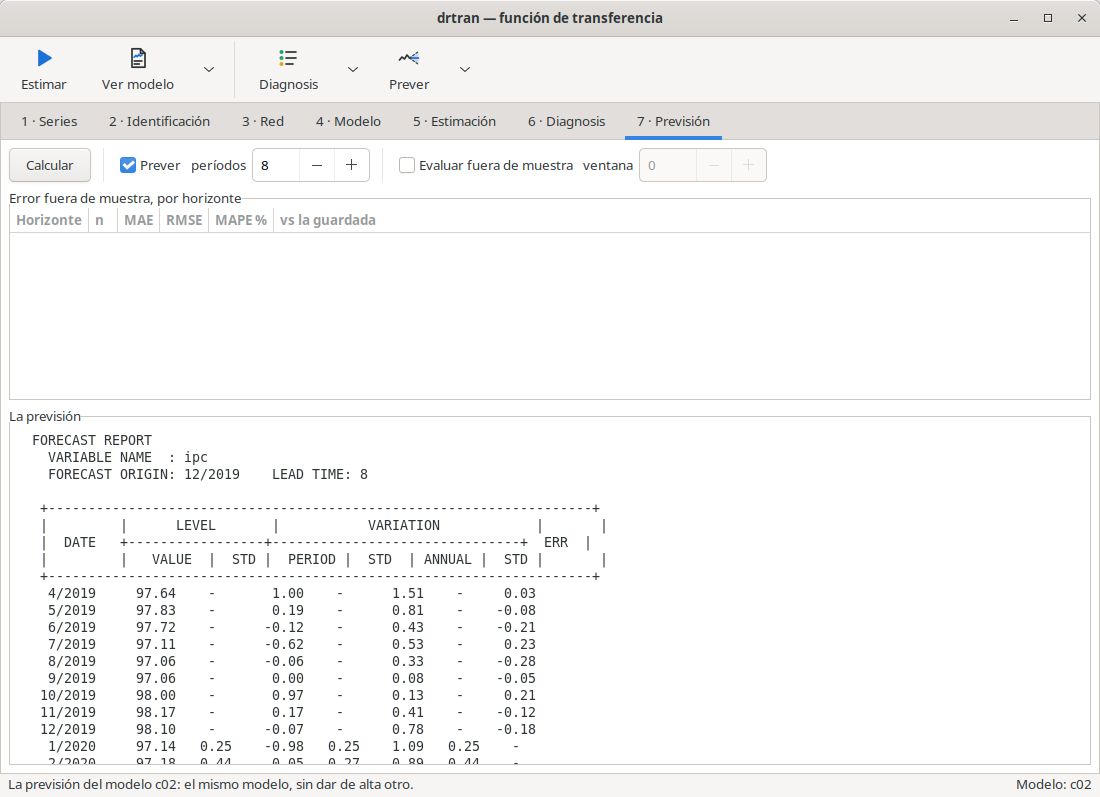
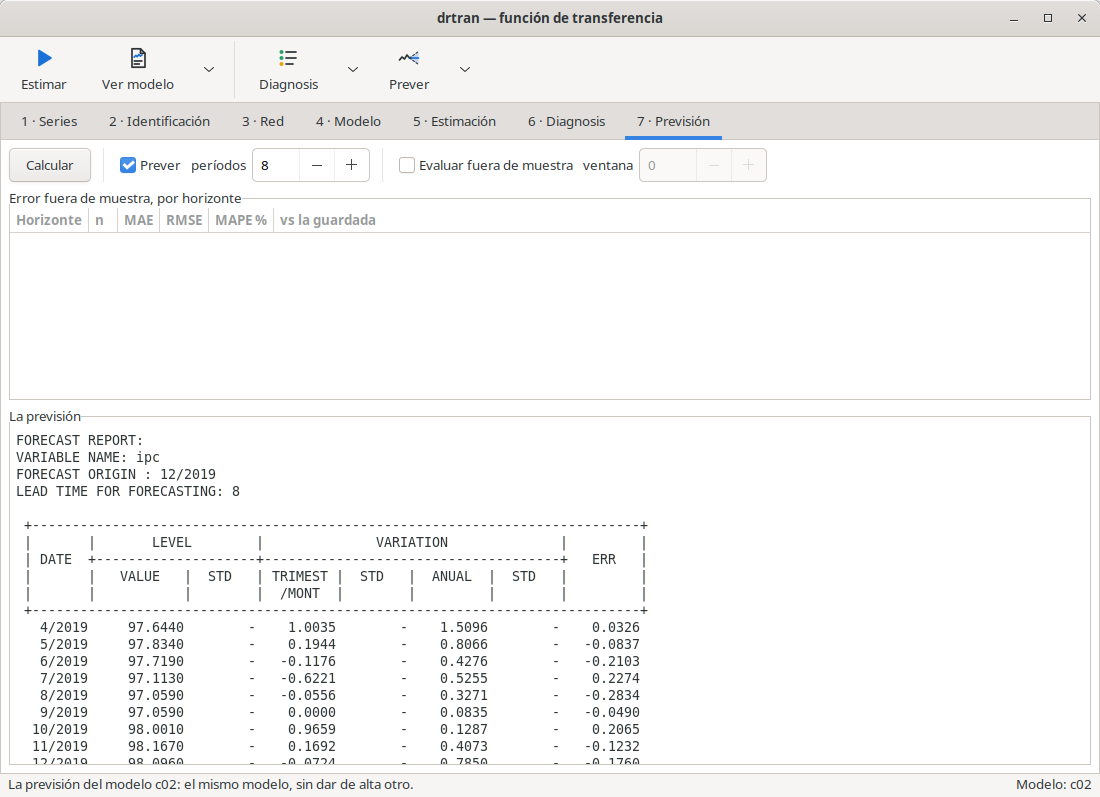
Previsión, fase P2: la tabla de la previsión de drtran, en el formato de fuf
- El .out de drtran escribe la tabla de forecast_table_acii de fuf: sus
  cabeceras, rótulos, columnas y cuatro decimales. Lleva un espacio
  garantizado entre campos; en fuf van pegados y los números grandes se
  juntan.
- lib/outfcst lee la cabecera nueva y la vieja, y las fechas anuales.
- La batería de drtran, el repro de BUG-55 y numeros.py leen la tabla nueva.
- TODO: el defecto de fuf, apuntado y sin tocar.
- Manual: la foto de la ventana, con la tabla nueva.

diff --git a/engines/drtran/src/drtran.c b/engines/drtran/src/drtran.c
@@ -1927,38 +1927,49 @@ static void transfer_forecast(real *x, int npar, int L, real sigma2, FILE *out)
         ystar = vector(1, nb + L);
         for (t = 1; t <= nb + L; t++) ystar[t] = YS[i][t];
 
+        /* LA TABLA DE fuf (forecast_table_acii, engines/fuf/src/usfo.c): sus
+           cabeceras, sus rotulos, sus columnas y sus cuatro decimales, para
+           que el analista lea la misma tabla en fue y aqui. Con una
+           diferencia, y es a proposito: cada campo lleva al menos un espacio
+           delante. En fuf van pegados (%9.4f%7.4f...), y con un nivel de
+           1000 o una desviacion de 10 dos numeros se juntan en uno -- con WTI
+           (d.t. hasta 45) o el m6 (niveles de 5000) pasaba en cada fila.
+           Las unidades son las de esta tabla: la variacion en % si el modelo
+           va en logaritmos; si no, en las unidades de la serie.           */
         obs_to_date(Ts[i].begyear, Ts[i].begtime, freq, nb, &per, &yr);
-        fprintf(out, "\n  FORECAST REPORT\n");
-        fprintf(out, "    VARIABLE NAME  : %s\n", Ts[i].name ? Ts[i].name : "");
-        if (freq > 1) fprintf(out, "    FORECAST ORIGIN: %2d/%-4d", per, yr);
-        else          fprintf(out, "    FORECAST ORIGIN: %-4d", yr);
-        fprintf(out, "    LEAD TIME: %d\n\n", L);
-        fprintf(out, "   +--------------------------------------------------------------------+\n");
-        fprintf(out, "   |         |      LEVEL       |           VARIATION            |       |\n");
-        fprintf(out, "   |  DATE   +-----------------+-------------------------------+  ERR  |\n");
-        fprintf(out, "   |         |   VALUE  |  STD |  PERIOD |  STD  | ANNUAL |  STD |       |\n");
-        fprintf(out, "   +--------------------------------------------------------------------+\n");
+        fprintf(out, "\nFORECAST REPORT: \n");
+        fprintf(out, "VARIABLE NAME: %s\n", Ts[i].name ? Ts[i].name : "");
+        if (freq > 1) fprintf(out, "FORECAST ORIGIN : %2d/%4d\n", per, yr);
+        else          fprintf(out, "FORECAST ORIGIN : %4d\n", yr);
+        fprintf(out, "LEAD TIME FOR FORECASTING: %d\n\n", L);
+        fprintf(out, " +----------------------------------------------------------------------------+\n");
+        fprintf(out, " |       |       LEVEL        |              VARIATION              |         |\n");
+        fprintf(out, " | DATE  +--------------------+-------------------------------------+   ERR   |\n");
+        fprintf(out, " |       |   VALUE   |  STD   | TRIMEST |  STD   |  ANUAL  |  STD   |         |\n");
+        fprintf(out, " |       |           |        |  /MONT  |        |         |        |         |\n");
+        fprintf(out, " +----------------------------------------------------------------------------+\n");
 
         /* Filas OBSERVADAS: las ultimas L+1 (origen incluido). */
         for (obs = nb - L; obs <= nb; obs++) {
             if (obs < 1) continue;
             obs_to_date(Ts[i].begyear, Ts[i].begtime, freq, obs, &per, &yr);
-            if (freq > 1) fprintf(out, "   %2d/%-4d ", per, yr);
-            else          fprintf(out, "   %-6d ", yr);
-            fprintf(out, "%9.2f    -   ", Ts[i].data[obs]);
-            if (obs - 1 >= 1) fprintf(out, "%8.2f    -   ", vscale * (ystar[obs] - ystar[obs-1]));
-            else              fprintf(out, "    -        -   ");
-            if (obs - freq >= 1) fprintf(out, "%7.2f    -  ", vscale * (ystar[obs] - ystar[obs-freq]));
-            else                 fprintf(out, "   -        -  ");
+            if (freq > 1) fprintf(out, "  %2d/%4d", per, yr);
+            else          fprintf(out, "     %4d", yr);
+            fprintf(out, "%12.4f%9s", Ts[i].data[obs], "-");
+            if (obs - 1 >= 1) fprintf(out, "%10.4f%9s", vscale * (ystar[obs] - ystar[obs-1]), "-");
+            else              fprintf(out, "%10s%9s", "-", "-");
+            if (freq > 1 && obs - freq >= 1)
+                 fprintf(out, "%10.4f%9s", vscale * (ystar[obs] - ystar[obs-freq]), "-");
+            else fprintf(out, "%10s%9s", "-", "-");
             if (obs - ord >= 1 && obs - ord <= n_stat)
                 /* a esta indexada [tiempo][serie], como en todo el resto del
                    fichero.  Aqui estaba al reves -- a[i][obs-ord] --, asi que
                    la columna ERR leia de OTRA posicion del bloque contiguo de
                    residuos: valores que parecen residuos porque LO SON, pero de
                    la observacion equivocada.  Por eso nunca canto.             */
-                fprintf(out, "%7.2f\n", vscale * vf.a[obs - ord][i]);
+                fprintf(out, "%10.4f\n", vscale * vf.a[obs - ord][i]);
             else
-                fprintf(out, "    -  \n");
+                fprintf(out, "%10s\n", "-");
         }
         /* Filas de PREVISION. */
         for (l = 1; l <= L; l++) {
@@ -1968,15 +1979,15 @@ static void transfer_forecast(real *x, int npar, int L, real sigma2, FILE *out)
             real f2  = ystar[nb + l] - ystar[nb + l - 1];
             real f3  = (nb + l - freq >= 1) ? ystar[nb + l] - ystar[nb + l - freq] : 0.0;
             obs_to_date(Ts[i].begyear, Ts[i].begtime, freq, nb + l, &per, &yr);
-            if (freq > 1) fprintf(out, "   %2d/%-4d ", per, yr);
-            else          fprintf(out, "   %-6d ", yr);
-            fprintf(out, "%9.2f %6.2f ", LVL[i][l], vscale * sd1);
-            fprintf(out, "%8.2f %6.2f ", vscale * f2, vscale * sd2);
-            if (freq > 1) fprintf(out, "%7.2f %6.2f", vscale * f3, vscale * sd3);
-            else          fprintf(out, "    -       - ");
-            fprintf(out, "    -  \n");
+            if (freq > 1) fprintf(out, "  %2d/%4d", per, yr);
+            else          fprintf(out, "     %4d", yr);
+            fprintf(out, "%12.4f%9.4f", LVL[i][l], vscale * sd1);
+            fprintf(out, "%10.4f%9.4f", vscale * f2, vscale * sd2);
+            if (freq > 1) fprintf(out, "%10.4f%9.4f", vscale * f3, vscale * sd3);
+            else          fprintf(out, "%10s%9s", "-", "-");
+            fprintf(out, "%10s\n", "-");
         }
-        fprintf(out, "   +--------------------------------------------------------------------+\n");
+        fprintf(out, " +----------------------------------------------------------------------------+\n");
         free_vector(ystar, 1, nb + L);
     }
 

diff --git a/lib/outfcst/outfcst.c b/lib/outfcst/outfcst.c
@@ -54,12 +54,18 @@ static int lee_fila( const char *l, OfFila *f )
 
    p = campo( p, b, sizeof b, &hueco );
    if ( !p || hueco ) return 0;
-   /* la fecha: digitos, una barra, digitos */
+   /* la fecha: digitos, una barra, digitos; o, en una serie anual, el anio
+    * solo, con sus cuatro cifras (y no otra cosa: «1» es la fila de un
+    * horizonte de la evaluacion, no un anio).                          */
    {
    char *barra = strchr( b, '/' );
 
-   if ( !barra || !isdigit( (unsigned char) b[0] ) ||
-        !isdigit( (unsigned char) barra[1] ) ) return 0;
+   if ( barra ) {
+      if ( !isdigit( (unsigned char) b[0] ) ||
+           !isdigit( (unsigned char) barra[1] ) ) return 0;
+   } else if ( strlen( b ) != 4 || strspn( b, "0123456789" ) != 4 ||
+               atoi( b ) < 1000 )
+      return 0;
    snprintf( f->fecha, sizeof f->fecha, "%.15s", b );
    }
 
@@ -120,6 +126,11 @@ int of_parse( const char *texto, Forecast *f )
             snprintf( ser->origen, sizeof ser->origen, "%.15s", nm );
          if ( strstr( l, "LEAD TIME" ) )
             sscanf( strstr( l, "LEAD TIME" ), "LEAD TIME: %d", &ser->lead );
+         continue;
+      }
+      /* el formato de fuf lo da en su linea: «LEAD TIME FOR FORECASTING: 8» */
+      if ( ser && strstr( l, "LEAD TIME" ) && strchr( l, ':' ) ) {
+         sscanf( strchr( l, ':' ) + 1, " %d", &ser->lead );
          continue;
       }
 

diff --git a/lib/outfcst/test_outfcst.c b/lib/outfcst/test_outfcst.c
@@ -203,6 +203,25 @@ static void tabla_fuf( void )
        "  una serie que no esta: 1 y nada" );
    ok( of_parse( out, &g ) == 0 && g.s[0].nf == 4 && g.s[0].nprev == 2,
        "  of_parse la lee: 4 filas, 2 de prevision" );
+   ok( g.s[0].lead == 2 && !strcmp( g.s[0].origen, "12/2025" ),
+       "  con el plazo de su linea propia y el origen" );
+
+   /* Una serie anual: la fecha es el anio solo. */
+   {
+   static const char *anual =
+      "FORECAST REPORT: \n"
+      "VARIABLE NAME: PIB\n"
+      "FORECAST ORIGIN : 2024\n"
+      "LEAD TIME FOR FORECASTING: 1\n"
+      "     2023    100.0000        -    1.0000        -         -        -    0.1000\n"
+      "     2024    101.0000        -    1.0000        -         -        -    0.2000\n"
+      "     2025    102.0000   1.5000    1.0000   1.5000         -        -         -\n"
+      "\n";
+
+   ok( of_parse( anual, &g ) == 0 && g.s[0].nf == 3 && g.s[0].nprev == 1
+       && !strcmp( g.s[0].f[2].fecha, "2025" ),
+       "  una serie anual: la fecha es el anio solo" );
+   }
 }
 
 int main( int argc, char **argv )

diff --git a/.github/revision/numeros.py b/.github/revision/numeros.py
@@ -147,7 +147,9 @@ def drtran_out(ruta):
         r["q_ruido"] = {"p": float(m.group(1)), "gl": int(m.group(2)), "q": float(m.group(3))}
     # la prevision: el primer mes de cada informe, por variable
     prev = {}
-    for m in re.finditer(r"VARIABLE NAME\s*:\s*(\S+)\s+FORECAST ORIGIN:\s*(\S+)\s+LEAD TIME:\s*(\d+)(.*?)\+-{10,}\+\s*\n\s*\n", txt, re.S):
+    # La cabecera de fuf (desde 2026-11): «FORECAST ORIGIN : 12/2025» y el
+    # plazo en su linea, «LEAD TIME FOR FORECASTING: 8». Y la de antes.
+    for m in re.finditer(r"VARIABLE NAME\s*:\s*(\S+)\s+FORECAST ORIGIN\s*:\s*(\S+)\s+LEAD TIME(?: FOR FORECASTING)?:\s*(\d+)(.*?)\+-{10,}\+\s*\n\s*\n", txt, re.S):
         filas = [ln.split() for ln in m.group(4).splitlines()]
         filas = [f for f in filas if f and re.match(r"\d+/\d{4}$", f[0]) and len(f) >= 3 and f[2] != "-"]
         if filas:

diff --git a/lib/outfcst/README.md b/lib/outfcst/README.md
@@ -44,13 +44,22 @@ la diferencia relativa del RMSE al lado de la siguiente.
 La tabla lleva líneas `+---` **por dentro de su propia cabecera**:
 
 ```
-   +--------------------------------------------------------------+   <- ¿abre?
-   |         |      LEVEL       |           VARIATION      |       |
-   |  DATE   +-----------------+-------------------------+  ERR   |   <- y aquí
-   |         |   VALUE  |  STD |  PERIOD |  STD | ANNUAL  |  STD   |
-   +--------------------------------------------------------------+   <- ¿cierra?
-    3/1991   1290.78    -      14.95 ...                              <- los datos
+ +----------------------------------------------------------------------------+   <- ¿abre?
+ |       |       LEVEL        |              VARIATION              |         |
+ | DATE  +--------------------+-------------------------------------+   ERR   |   <- y aquí
+ |       |   VALUE   |  STD   | TRIMEST |  STD   |  ANUAL  |  STD   |         |
+ |       |           |        |  /MONT  |        |         |        |         |
+ +----------------------------------------------------------------------------+   <- ¿cierra?
+   3/1991   5260.9500        -   75.1500        -   74.6100        -   -2.3499   <- los datos
 ```
+
+Es la tabla de fuf (`forecast_table_acii`), con sus rótulos y sus cuatro
+decimales: drtran la escribe así desde la fase P2 de `docs/TODO.md`. Con un
+espacio garantizado entre campos, que fuf no da: allí van pegados y un nivel
+de 1000 se junta con la fecha. El lector acepta la cabecera de antes
+(«FORECAST ORIGIN: 3/1993    LEAD TIME: 8») y la de fuf, con el plazo en su
+línea («LEAD TIME FOR FORECASTING: 8»), y en las series anuales una fecha que
+es solo el año.
 
 Un interruptor «estoy dentro de la tabla» queda **invertido justo para los
 datos**, y además deja el resto del fichero fuera de juego. Una fila se reconoce

diff --git a/docs/TODO.md b/docs/TODO.md
@@ -338,11 +338,22 @@ Medido con fuf y drtran sobre IPC_ES ← WTI (`engines/drtran/examples/passthrou
 | fase | qué |
 |---|---|
 | **P1** ✓ | El gráfico de fuf, a `lib/fufplot`. fuf lo llama de ahí, y su EPS no cambia ni un byte. drtran_gui dibuja con él. La ventana enseña la tabla del `.out` tal cual (`of_tabla`), así que con P2 sale ya en el formato de fuf |
-| **P2** | La tabla del `.out` de drtran en el formato exacto de fuf; `lib/outfcst` lee los dos; los goldens |
+| **P2** ✓ | La tabla del `.out` de drtran en el formato de fuf: sus cabeceras, rótulos, columnas y cuatro decimales, con un espacio garantizado entre campos (ver abajo). `lib/outfcst`, la batería de drtran y `.github/revision/numeros.py` leen la nueva |
 | **P3** | drtran_gui: la evaluación frente al univariante con la misma ventana (ratio del RMSE, DM) |
 | **P4** | drtran_gui: la IRF y la SRF dibujadas con sus bandas (`lib/fugdraw`) |
 | **P5** | La auditoría de «Al cuaderno» en drtran_gui y en sim_gui |
 | **P6** | sim_gui: el gráfico de fuf, la tabla de drvarma en el formato de fuf, y la IRF y la SRF dibujadas |
+
+**Un defecto de fuf, sin tocar** (lo vio P2): `forecast_table_acii`
+(`engines/fuf/src/usfo.c`) escribe los campos pegados (`%9.4f%7.4f…`). Con
+un nivel de 1000 o más, el valor se junta con la fecha (` 12/20241234.5678`),
+y con una desviación de 10 o más, con el número de al lado. La tabla se lee
+mal a ojo y no se puede leer a máquina. fuf funciona y no se toca sin decidirlo:
+falta abrir su BUG con repro. drtran no lo copia: deja un espacio entre campos.
+Tampoco copia otras dos cosas de fuf: con λ ≠ 0 la variación va en las unidades
+de la serie (fuf la multiplica por 100), y con λ < 0 no escribe la segunda
+tabla de fuf (bandas y nivel transformado), porque la de drtran ya da el nivel
+deshecho.
 
 ## Lo demás, por documento
 
